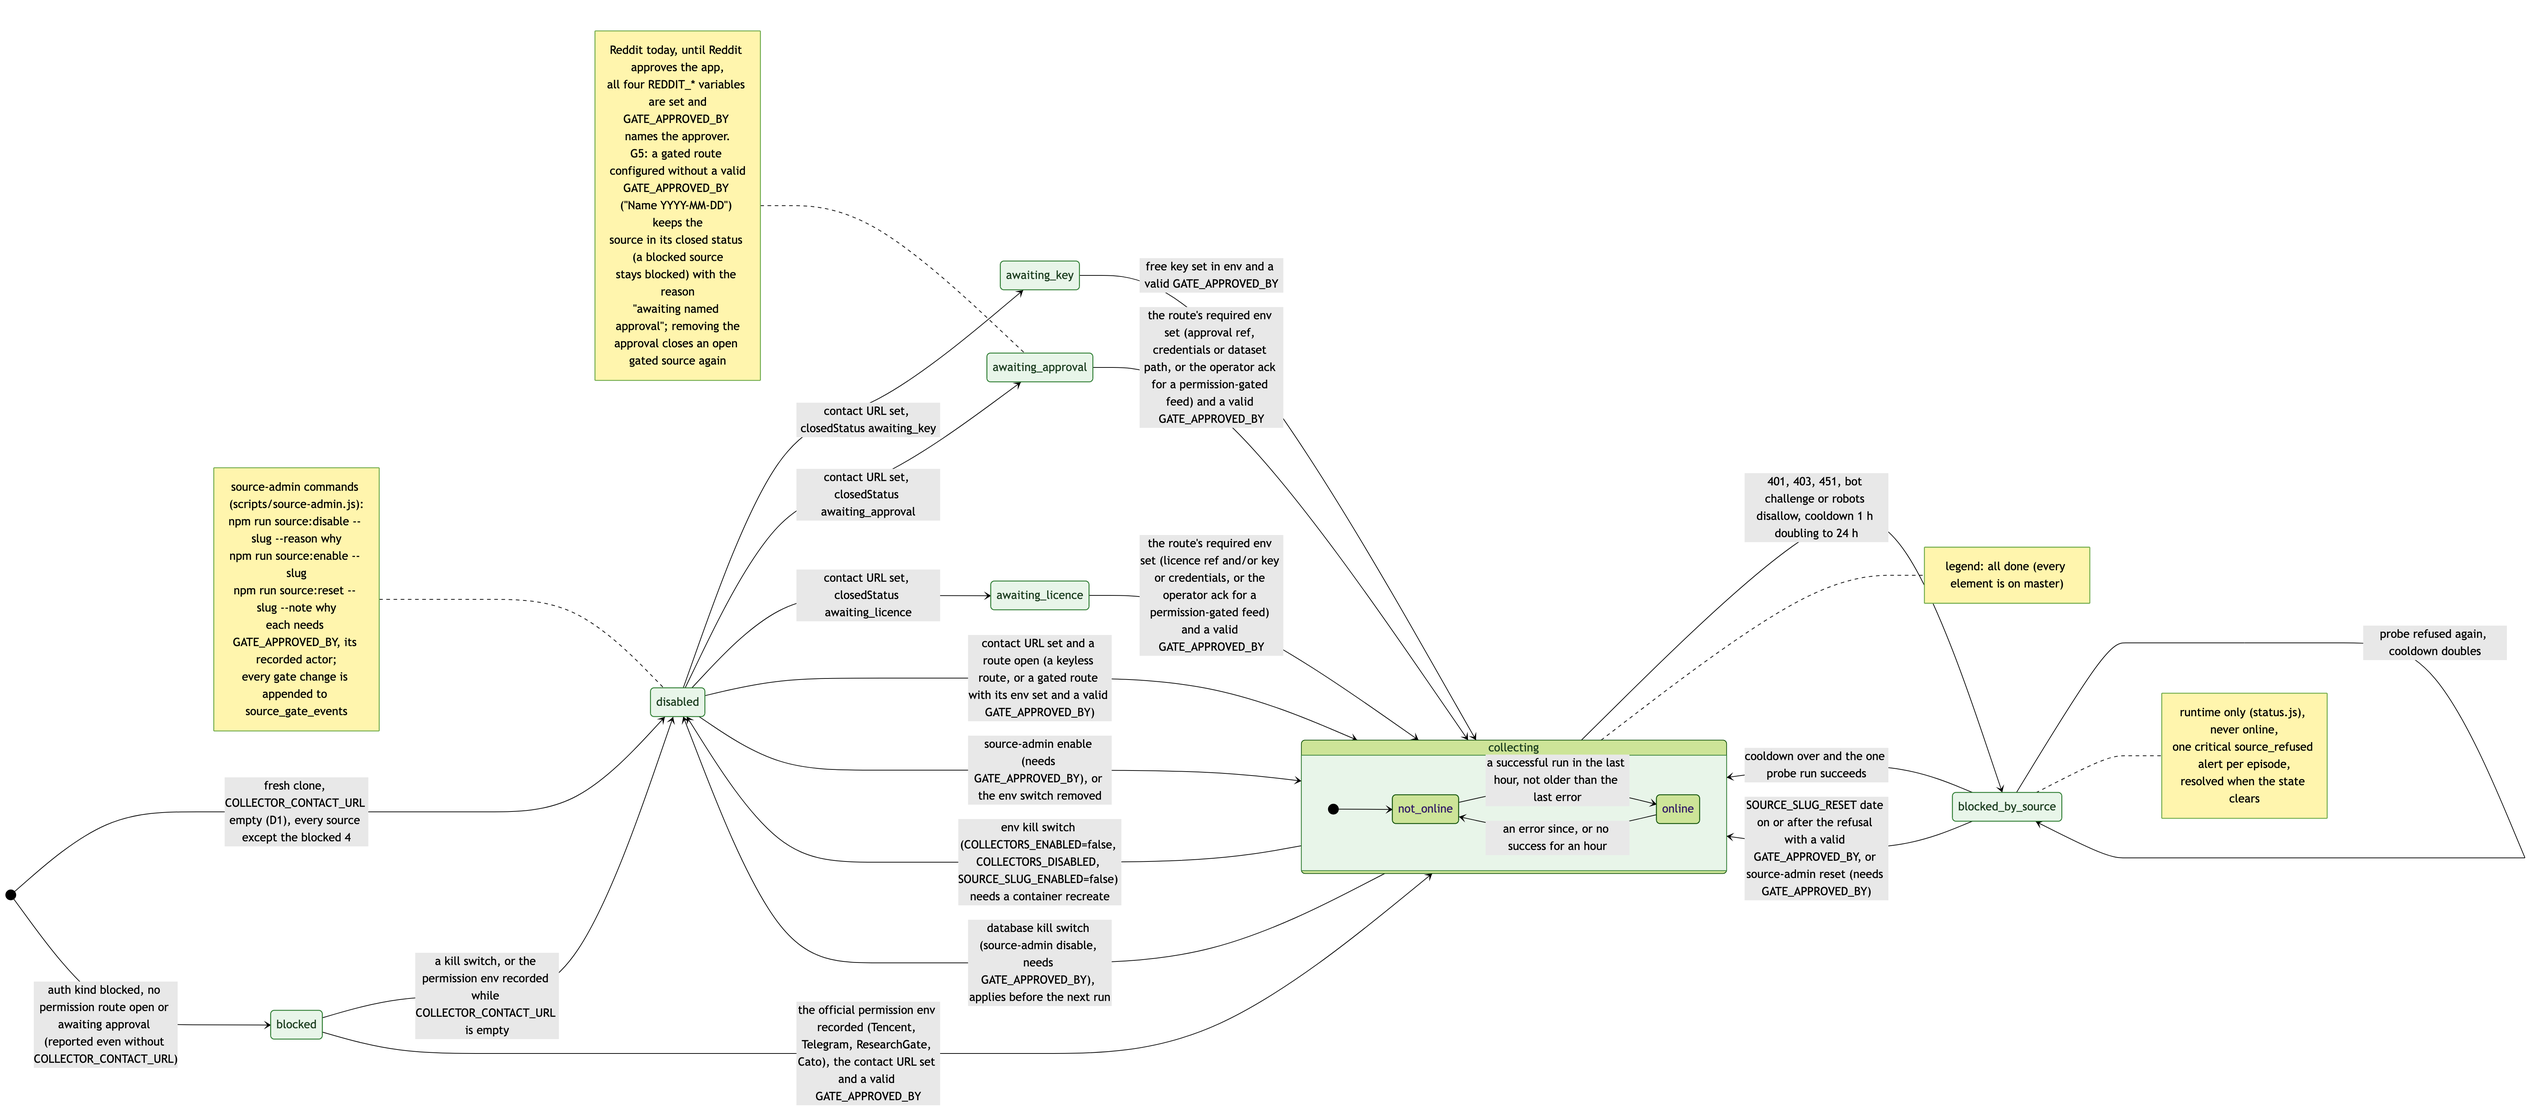
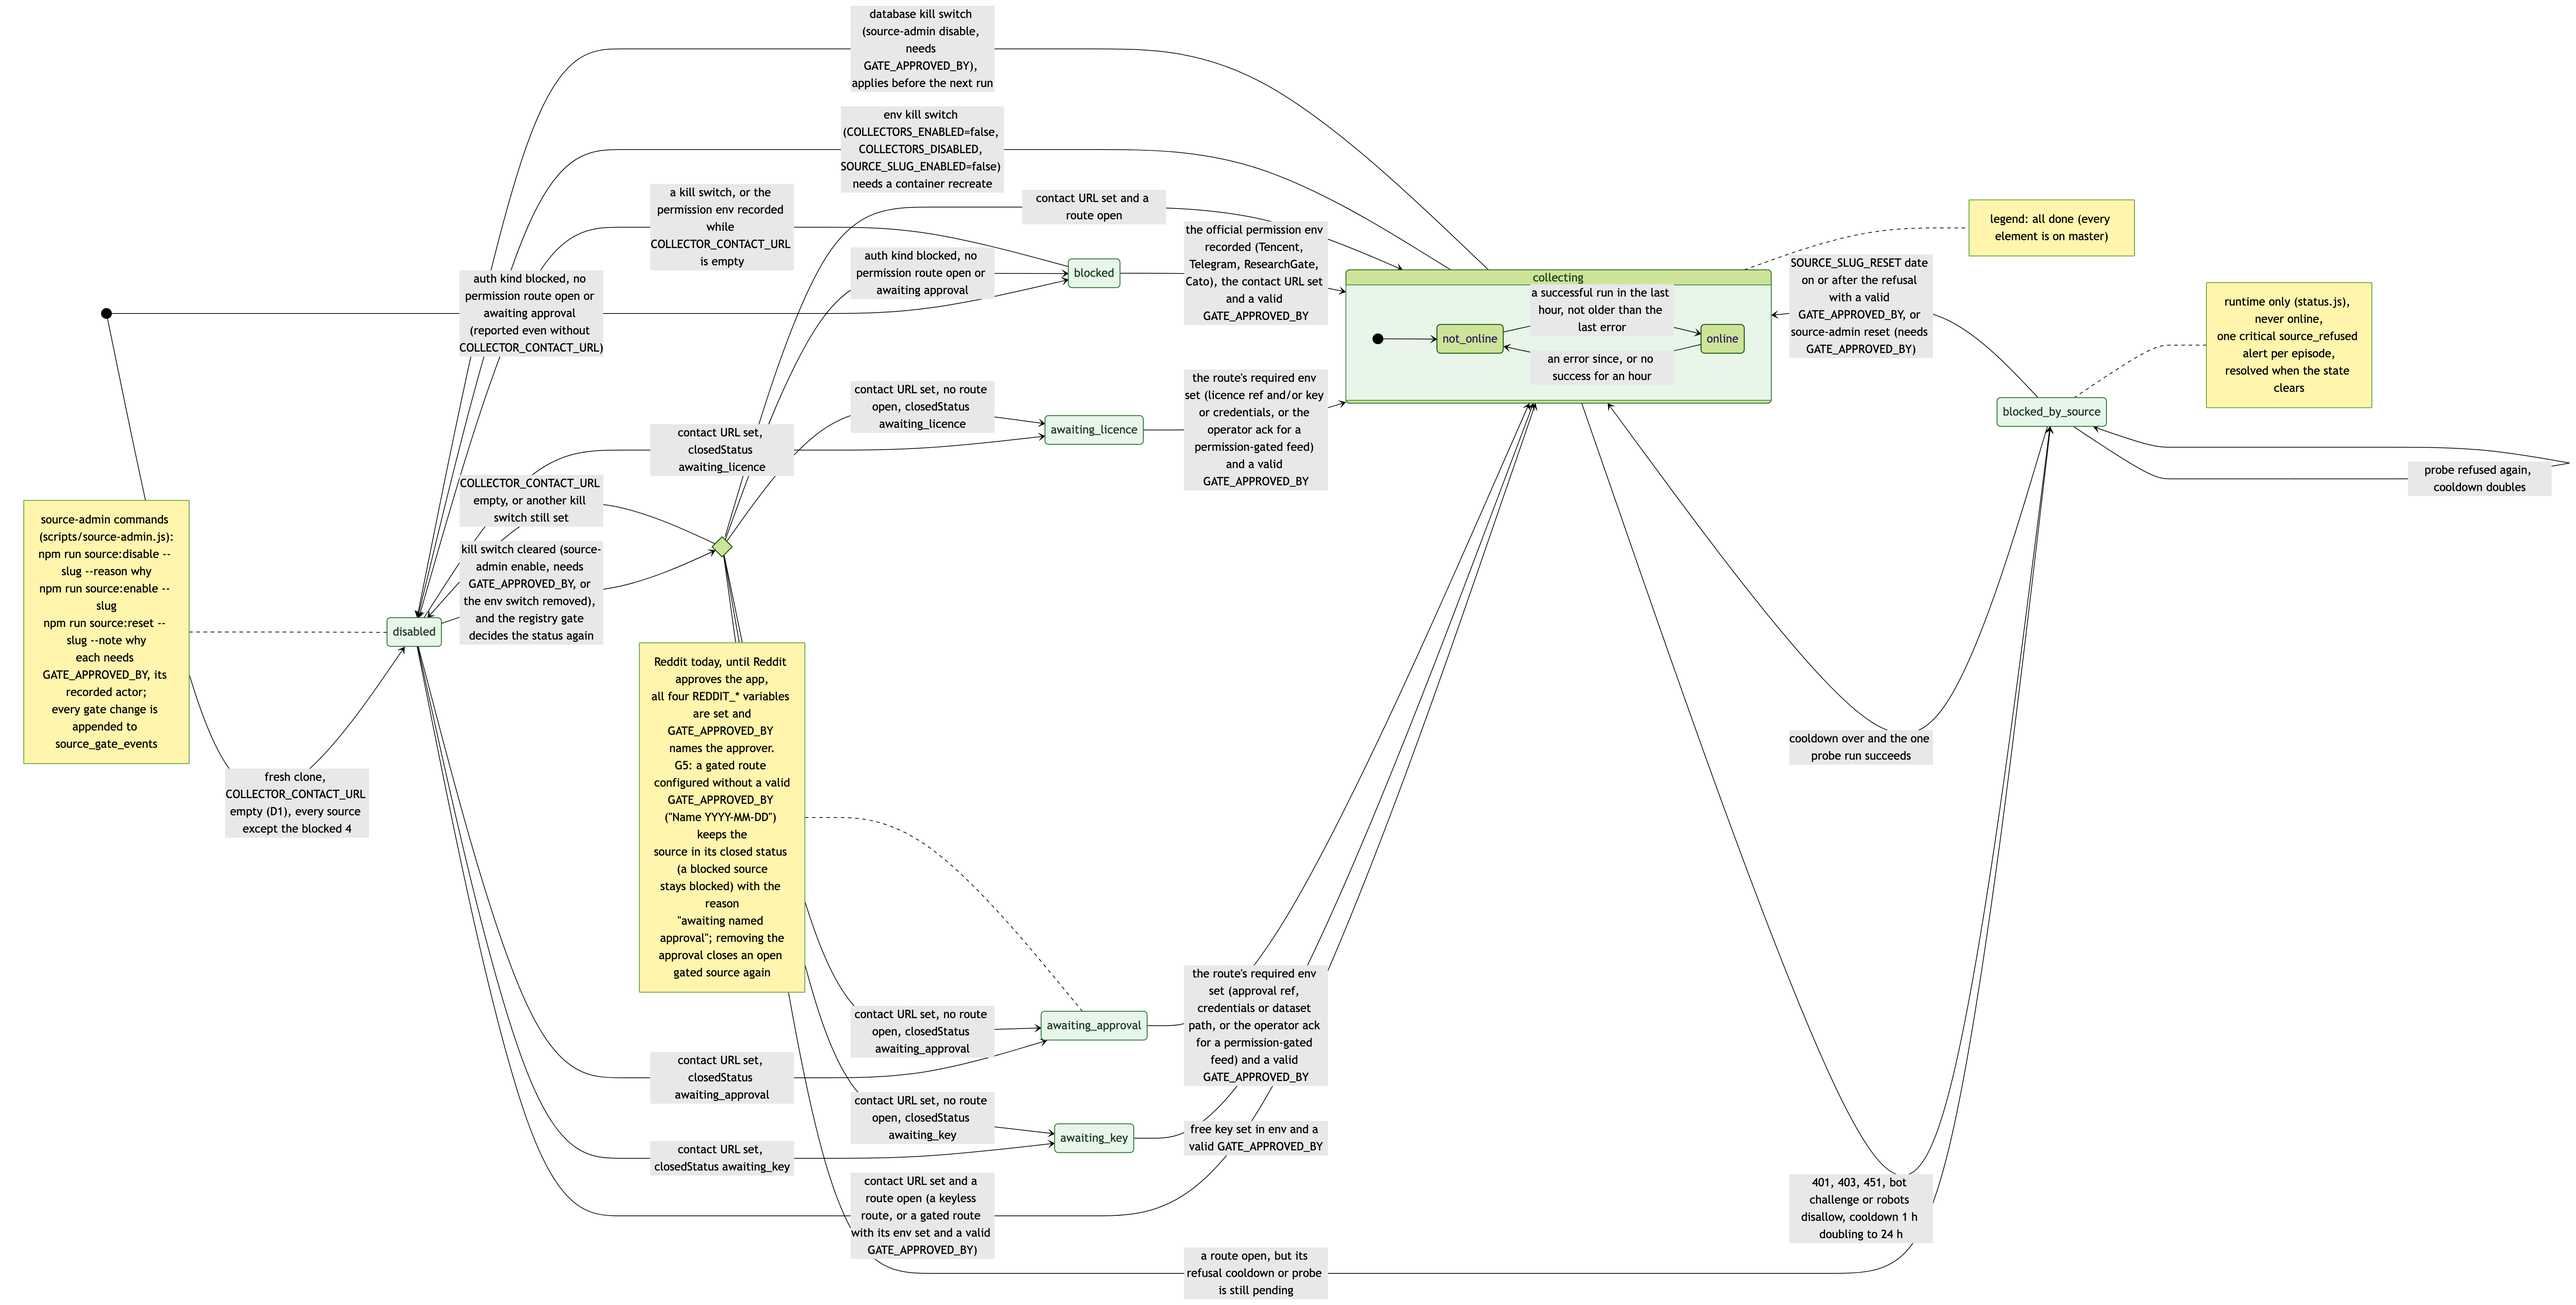
Diagrams: kill-switch clear re-runs the gate; raw_posts is not immutable
source-gate-status showed clearing a kill switch as disabled -> collecting.
Clearing it (source-admin enable, or the env switch removed) only reveals
the registry gate again (sourceStatus in src/config/source-registry.js;
source-admin enable clears the DB switch only), so a choice node now fans
out to collecting, the three awaiting_* statuses, blocked, blocked_by_source
(refusal cooldown or probe pending) and disabled (no contact URL, or another
kill switch). The label avoids a semicolon, which Mermaid splits into stray
state nodes.

erd-2 called raw_posts "the immutable post", but retention blanks content
and raw_payload and sets text_removed_*; the summary now says its ids and
audit links never change while its text and payload are blanked when the
retention window ends. Both answer Copilot threads on PR #40.

PNGs and HTML re-rendered with render.sh; MANIFEST PNG sizes updated for
source-gate-status (7162x3630) and frontend-modules (7130x4278).

diff --git a/docs/diagrams/data/erd-2-posts-scores-audit.html b/docs/diagrams/data/erd-2-posts-scores-audit.html
@@ -24,11 +24,11 @@
 </head>
 <body>
 <h1>Data model 2 of 4 · posts, scores, audit trail, bias</h1>
-<p class="summary">The immutable post, its three per-post scores, the decision audit log that ties every score to a registered methodology version, the embedding, and the job-level bias assessments.</p>
+<p class="summary">The stored post (its ids and audit links never change; its text and payload are blanked when its retention window ends), its three per-post scores, the decision audit log that ties every score to a registered methodology version, the embedding, and the job-level bias assessments.</p>
 <p class="source">Canonical source: <code>erd-2-posts-scores-audit.mmd</code> · index: <code>docs/diagrams/README.md</code></p>
 <pre class="mermaid">
 %% Title: Data model 2 of 4 · posts, scores, audit trail, bias
-%% Summary: The immutable post, its three per-post scores, the decision audit log that ties every score to a registered methodology version, the embedding, and the job-level bias assessments.
+%% Summary: The stored post (its ids and audit links never change; its text and payload are blanked when its retention window ends), its three per-post scores, the decision audit log that ties every score to a registered methodology version, the embedding, and the job-level bias assessments.
 %% Sources: src/db/migrations/001, 002, 003, 004, 006, 010, 012, 017, 022, 025, 042; src/pipeline/ingest.js (insert), src/collectors/retention.js (blanking), src/config/methodology-registry.js (components). The rolling-window bias tables (060) are in data model 4. Spec: TECHNICAL_SPEC.md sections 6 and 10 (the explainability chain). data_sources and processing_jobs are shown with their keys only (full columns in data model 1).
 erDiagram
 

diff --git a/docs/diagrams/states/source-gate-status.html b/docs/diagrams/states/source-gate-status.html
@@ -57,7 +57,15 @@ stateDiagram-v2
 
   collecting --&gt; disabled : env kill switch (COLLECTORS_ENABLED=false, COLLECTORS_DISABLED, SOURCE_SLUG_ENABLED=false) needs a container recreate
   collecting --&gt; disabled : database kill switch (source-admin disable, needs GATE_APPROVED_BY), applies before the next run
-  disabled --&gt; collecting : source-admin enable (needs GATE_APPROVED_BY), or the env switch removed
+  state kill_cleared &lt;&lt;choice&gt;&gt;
+  disabled --&gt; kill_cleared : kill switch cleared (source-admin enable, needs GATE_APPROVED_BY, or the env switch removed), and the registry gate decides the status again
+  kill_cleared --&gt; collecting : contact URL set and a route open
+  kill_cleared --&gt; awaiting_key : contact URL set, no route open, closedStatus awaiting_key
+  kill_cleared --&gt; awaiting_approval : contact URL set, no route open, closedStatus awaiting_approval
+  kill_cleared --&gt; awaiting_licence : contact URL set, no route open, closedStatus awaiting_licence
+  kill_cleared --&gt; blocked : auth kind blocked, no permission route open or awaiting approval
+  kill_cleared --&gt; blocked_by_source : a route open, but its refusal cooldown or probe is still pending
+  kill_cleared --&gt; disabled : COLLECTOR_CONTACT_URL empty, or another kill switch still set
   collecting --&gt; blocked_by_source : 401, 403, 451, bot challenge or robots disallow, cooldown 1 h doubling to 24 h
   blocked_by_source --&gt; collecting : cooldown over and the one probe run succeeds
   blocked_by_source --&gt; blocked_by_source : probe refused again, cooldown doubles

diff --git a/docs/diagrams/MANIFEST-author.md b/docs/diagrams/MANIFEST-author.md
@@ -21,10 +21,10 @@ How to verify the artifacts: `bash docs/diagrams/render.sh --check` confirms tha
 | 11 | `data/erd-3-retention-and-correlation.mmd` | 5272×1272 | src/db/migrations/002 (data_retention_log), 005, 006, 036 and 056 (correlation_gate_events, append-only trigger); scripts/migrate.js (schema_migrations). Writers: src/pipeline/ingest.js (collected), src/collectors/retention.js (blanked_platform_terms, text_removed_detail_window), src/collectors/run-retention.js (rolled_up_source_runs), scripts/compact.js (compacted, purged_demo, compaction_log), src/collectors/governance.js (correlation_gate_events, with the status from src/pipeline/correlation-gate.js), scripts/compact.js (demo purge of user_platform_sightings and pseudonymous_users); src/pipeline/correlation.js writes nothing (correlateUser throws). Spec: TECHNICAL_SPEC.md sections 19 (layered retention) and 20 (correlation). raw_posts and data_sources are shown with their keys only. Dotted lines are logical links without a foreign key. | 19, 20 | done |
 | 12 | `model/collector-framework.mmd` | 4764×3390 | src/collectors/{base,index,http,robots,netguard,transport,errors,runner,cycle,state,refusal,status,retention,normalize,identity,provenance,redact,ai-filter,governance,terms-text,source-health,source-alerts,retention-overdue,run-retention,stale-jobs,sweep}.js, src/collectors/adapters/*.js, src/collectors/reddit/{api,budget}.js, src/config/source-registry.js. Spec: ADR 0001 (strategy / adapter pattern, gate status); TECHNICAL_SPEC.md section 17. | 17; ADR 0001 | done |
 | 13 | `model/pipeline-and-workers.mmd` | 4586×3113 | src/pipeline/*.js, src/collectors/ai-filter.js, src/queues/{index,connection,pending}.js, src/workers/*.js, src/collectors/runner.js (single-job finalization), src/db/pool-size.js (workerConcurrency), src/audit/replay.js, src/watchdog/*.js, scripts/watchdog.js, src/config/methodology-registry.js (CURRENT_VERSIONS), docker-compose.yml (redis service = Valkey 8). Updated 2026-09-30. Spec: TECHNICAL_SPEC.md sections 9, 10, 12, 18, 19, 20. Versions are CURRENT_VERSIONS of the methodology registry. | 9, 10, 12, 18, 19, 20 | done |
-| 14 | `model/frontend-modules.mmd` | 7030×4278 | public/index.html (script order), public/js/*.js, public/js/config/*.js. Updated 2026-09-29 (PR #22: the watchdog SYSTEM ALERT chip and banner, the SYSTEM WATCHDOG drawer section, the publisher-location layer). Spec: TECHNICAL_SPEC.md section 11; PRD section 4.3 (the FuN.zip prototype is the design of record). | 11; PRD 4.3 | done |
+| 14 | `model/frontend-modules.mmd` | 7130×4278 | public/index.html (script order), public/js/*.js, public/js/config/*.js. Updated 2026-09-29 (PR #22: the watchdog SYSTEM ALERT chip and banner, the SYSTEM WATCHDOG drawer section, the publisher-location layer). Spec: TECHNICAL_SPEC.md section 11; PRD section 4.3 (the FuN.zip prototype is the design of record). | 11; PRD 4.3 | done |
 | 15 | `sequences/audit-receipt.mmd` | 3452×3874 | public/js/ui.js (openAudit, mapAuditResponse, AUDIENCES), src/routes/audit.js, src/config/{audit-narration,bias-lineage,bias-vocabulary,source-registry,data-mode}.js, src/collectors/retention.js (retentionStatus), src/db/migrations/042_admission_filter.sql. Updated 2026-09-30. Spec: TECHNICAL_SPEC.md sections 7 (GET /api/audit/:post_id), 8 (provenance), 10 (explainability chain, audiences). | 7, 8, 10 | done |
 | 16 | `sequences/refresh.mmd` | 4828×4304 | src/routes/refresh.js (refreshTokenCheck, boundBeyondLoopback, viaProxy), src/middleware/same-origin.js, src/server.js (mount order, no CORS, listenHost), src/queues/index.js (collect.refresh, ingest), src/workers/collect.worker.js (processRefreshJob, refreshDeadlineMs), src/collectors/runner.js (scoreVia queue), src/workers/ingest.worker.js, src/collectors/cycle.js (reserveRetry, releaseRetry, closeCycles, jobPostsProcessed), src/pipeline/bias.js (runBiasChecks), src/collectors/stale-jobs.js, src/db/migrations/019_refresh_inflight.sql, 040_job_progress.sql. Updated 2026-09-30. Spec: TECHNICAL_SPEC.md section 7 (POST /api/refresh) and section 8 (rate limiting). The page itself never calls this endpoint. | 7, 8 | done |
-| 17 | `states/source-gate-status.mmd` | 7038×3090 | src/config/source-registry.js (GATE_STATUSES, sourceStatus, killReason, openRoutes, routesAwaitingApproval, namedApproval, isGatedRoute), src/collectors/status.js (registryFields, isOnline, RUNTIME_STATUSES), src/collectors/refusal.js (refusalGate, envReset), src/collectors/state.js, src/collectors/governance.js (recordGateTransitions), scripts/source-admin.js; migrations 018, 020, 035, 056. Spec: TECHNICAL_SPEC.md section 17; ADR 0001 (gate status, kill switches, the blocked 4, the refused state, D1); PR #22 decision G5 (named approval). | 17; ADR 0001 | done |
+| 17 | `states/source-gate-status.mmd` | 7162×3630 | src/config/source-registry.js (GATE_STATUSES, sourceStatus, killReason, openRoutes, routesAwaitingApproval, namedApproval, isGatedRoute), src/collectors/status.js (registryFields, isOnline, RUNTIME_STATUSES), src/collectors/refusal.js (refusalGate, envReset), src/collectors/state.js, src/collectors/governance.js (recordGateTransitions), scripts/source-admin.js; migrations 018, 020, 035, 056. Spec: TECHNICAL_SPEC.md section 17; ADR 0001 (gate status, kill switches, the blocked 4, the refused state, D1); PR #22 decision G5 (named approval). | 17; ADR 0001 | done |
 | 18 | `states/story-beats.mmd` | 4483×893 | public/js/config/story.config.js (STORY, 11 beats), public/js/story.js (onScroll, jump, explore threshold, pulse:* events), public/js/main.js (scrollToExplore, about panel), public/js/config/legal.config.js, public/js/ui.js (explore chrome, drawers), public/index.html. Spec: TECHNICAL_SPEC.md section 11; PRD section 4.3 (FuN.zip prototype). | 11; PRD 4.3 | done |
 | 19 | `states/retention-lifecycle.mmd` | 3672×2378 | src/collectors/retention.js, src/config/source-registry.js (retentionHours), src/workers/maintenance.worker.js, src/collectors/reddit/{maintenance,recheck}.js, scripts/compact.js (purgeDemoPosts, compactMonth), scripts/populate.js (demo embed jobs), src/collectors/runner.js and src/workers/ingest.worker.js (embed gate), src/pipeline/relevance.js (EMBED_GATE_MIN_SCORE); migrations 001 (content NOT NULL), 005, 025, 031. Spec: TECHNICAL_SPEC.md section 19 (three-tier model); ADR 0001 ruling 9; PR #22 decisions G3, G4. | 19; ADR 0001 ruling 9 | done |
 | 20 | `states/processing-job-lifecycle.mmd` | 4198×1642 | src/collectors/cycle.js (currentCycleJob, claimDueCycles, closeCycles), src/collectors/runner.js (scoreVia, touch), src/collectors/stale-jobs.js (sweepStaleJobs), src/workers/maintenance.worker.js, src/routes/refresh.js, src/workers/{collect,ingest}.worker.js, scripts/populate.js, src/db/migrations/001, 019, 021, 040. Spec: TECHNICAL_SPEC.md sections 7 (POST /api/refresh), 9 (when bias checks run) and 19 (Tier 3); PR #22 decision G4. | 7, 9, 19 | done |
